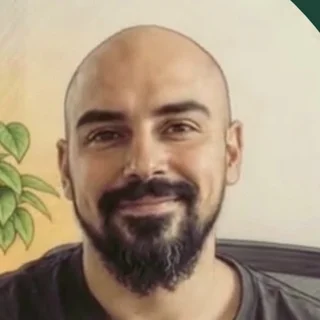
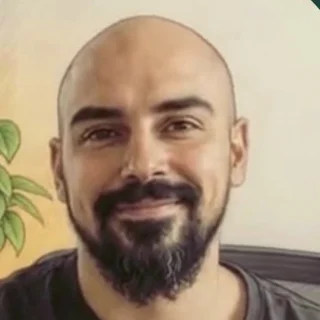
Foto de Marco con 7% más de zoom

diff --git a/index.html b/index.html
@@ -268,7 +268,7 @@
       <h2 id="t-final">¿Hablamos de tu web?</h2>
       <div class="final__bloque">
       <div class="chat">
-        <img src="assets/img/marco-chat.webp?v=8" alt="Marco" width="58" height="58" loading="lazy">
+        <img src="assets/img/marco-chat.webp?v=9" alt="Marco" width="58" height="58" loading="lazy">
         <p class="burbuja">Escríbeme por WhatsApp y cuéntame qué negocio tienes. Te preparo tu web antes de pagar, sin compromiso.<strong>— Marco</strong></p>
       </div>
       <p class="final__cta"><a class="btn btn--lima" href="https://wa.me/34633548224?text=Hola%20Marco%2C%20me%20gustar%C3%ADa%20pedir%20la%20demo%20gratuita%20para%20mi%20negocio." target="_blank" rel="noopener"><svg viewBox="0 0 24 24" fill="none" stroke="currentColor" stroke-width="1.5" stroke-linecap="round" stroke-linejoin="round" aria-hidden="true"><path d="M17 12.5C17.2761 12.5 17.5 12.2761 17.5 12C17.5 11.7239 17.2761 11.5 17 11.5C16.7239 11.5 16.5 11.7239 16.5 12C16.5 12.2761 16.7239 12.5 17 12.5Z" fill="currentColor"/><path d="M12 12.5C12.2761 12.5 12.5 12.2761 12.5 12C12.5 11.7239 12.2761 11.5 12 11.5C11.7239 11.5 11.5 11.7239 11.5 12C11.5 12.2761 11.7239 12.5 12 12.5Z" fill="currentColor"/><path d="M7 12.5C7.27614 12.5 7.5 12.2761 7.5 12C7.5 11.7239 7.27614 11.5 7 11.5C6.72386 11.5 6.5 11.7239 6.5 12C6.5 12.2761 6.72386 12.5 7 12.5Z" fill="currentColor"/><path d="M12 22C17.5228 22 22 17.5228 22 12C22 6.47715 17.5228 2 12 2C6.47715 2 2 6.47715 2 12C2 13.8214 2.48697 15.5291 3.33782 17L2.5 21.5L7 20.6622C8.47087 21.513 10.1786 22 12 22Z"/></svg>Pide tu web gratis</a></p>
